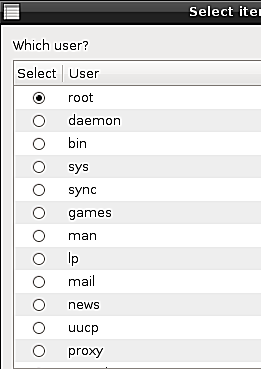
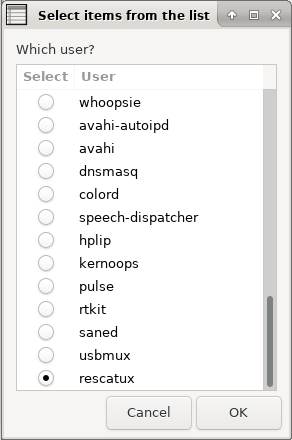
sudoers: Updated and completed documentation to 2019 gui.

Changed region(s): [[0.0, 0.0, 1.0, 1.0], [0.4291, 0.8943, 0.5824, 0.9539], [0.7663, 0.9241, 0.8582, 0.9539]]

diff --git a/plugins/sudoers/local_doc.html b/plugins/sudoers/local_doc.html
@@ -12,11 +12,11 @@ Choose your language.
 
 <ul>
   <li>
-  <b>Step 1</b><p></p>Rescapp searches for partitions, that have on them the following file: <i>/etc/issue</i> based on information found in the <i>/proc/partitions</i> file.
+  <b>Step 1</b><p></p>Rescapp searches for GNU/Linux partitions.
   </li>
   <li>
-  <b>Step 2</b><p></p>If such partitions have been found, Rescapp displays a list of partitions, that have on them the following file: <i>/etc/issue</i>. At the same time you are prompted:<p></p>
-  <i>Which partition?</i><p></p> You are supposed to choose, your main GNU/Linux distribution, (you will probably only see one) and press the OK button.
+  <b>Step 2</b><p></p>Rescapp displays a list of found partitions. At the same time you are prompted:<p></p>
+  <i>Which GNU/Linux partition?</i><p></p> You are supposed to choose, your main GNU/Linux distribution, (you will probably only see one) and press the OK button.
   </li>
 <p></p><IMG SRC="images/sudoers_001_partition.png"><p></p>
   <li>
@@ -27,14 +27,27 @@ Choose your language.
   <b>Step 4</b><p></p>Rescapp backups the old /etc/sudoers file, into a file named /etc/sudoers_YYYY_... and tries to setup a new, /etc/sudoers file that includes, the selected user as the sudo admin.
   </li>
   <li>
-  <b>Step 5</b><p></p>You are informed about the, /etc/sudoers file creation process.<p></p>You either get:<p></p><i>Success! The sudoers file was changed OK! :) or</i><p></p>or<p></p><i>Failure! The sudoers file was not changed. Something went wrong! :(</i>
+  <b>Step 5</b><p></p>You are informed about the regenerate sudoers file process.<p></p>You either get:<p></p>
+  <div style="padding: 5px; border: 6px solid green; margin: 7px;">
+  <p>
+  <b>
+  <IMG SRC="../not-documented/images/dialog-ok-apply.png">
+  [SUCCESS] Success! The sudoers file was changed OK! :)
+  </b>
+  </p>
+  </div>
+  or
+  <div style="padding: 5px; border: 6px solid green; margin: 7px;">
+  <p>
+  <b>
+  <IMG SRC="../not-documented/images/dialog-error.png">
+  [ERROR] The sudoers file was not changed. Something went wrong! :(
+  </b>
+  </p>
+  </div>
   </li>
-<p></p><IMG SRC="images/sudoers_003_success.png"><p></p>
   <li>
-  <b>Step 6</b><p></p>A log file called <i>sudoers.log.txt</i> can be found in the Desktop <i>logs</i> folder.
-  </li>
-  <li>
-  <b>Step 7</b><p></p>Once you are able to gain, admin privileges on your system, you are advised to check, if your sudoers file is correct, depending on your distribution, via the visudo command.
+  <b>Step 6</b><p></p>Once you are able to gain, admin privileges on your system, you are advised to check, if your sudoers file is correct, depending on your distribution, via the visudo or sudoedit command.
   </li>
 </ul>
 
